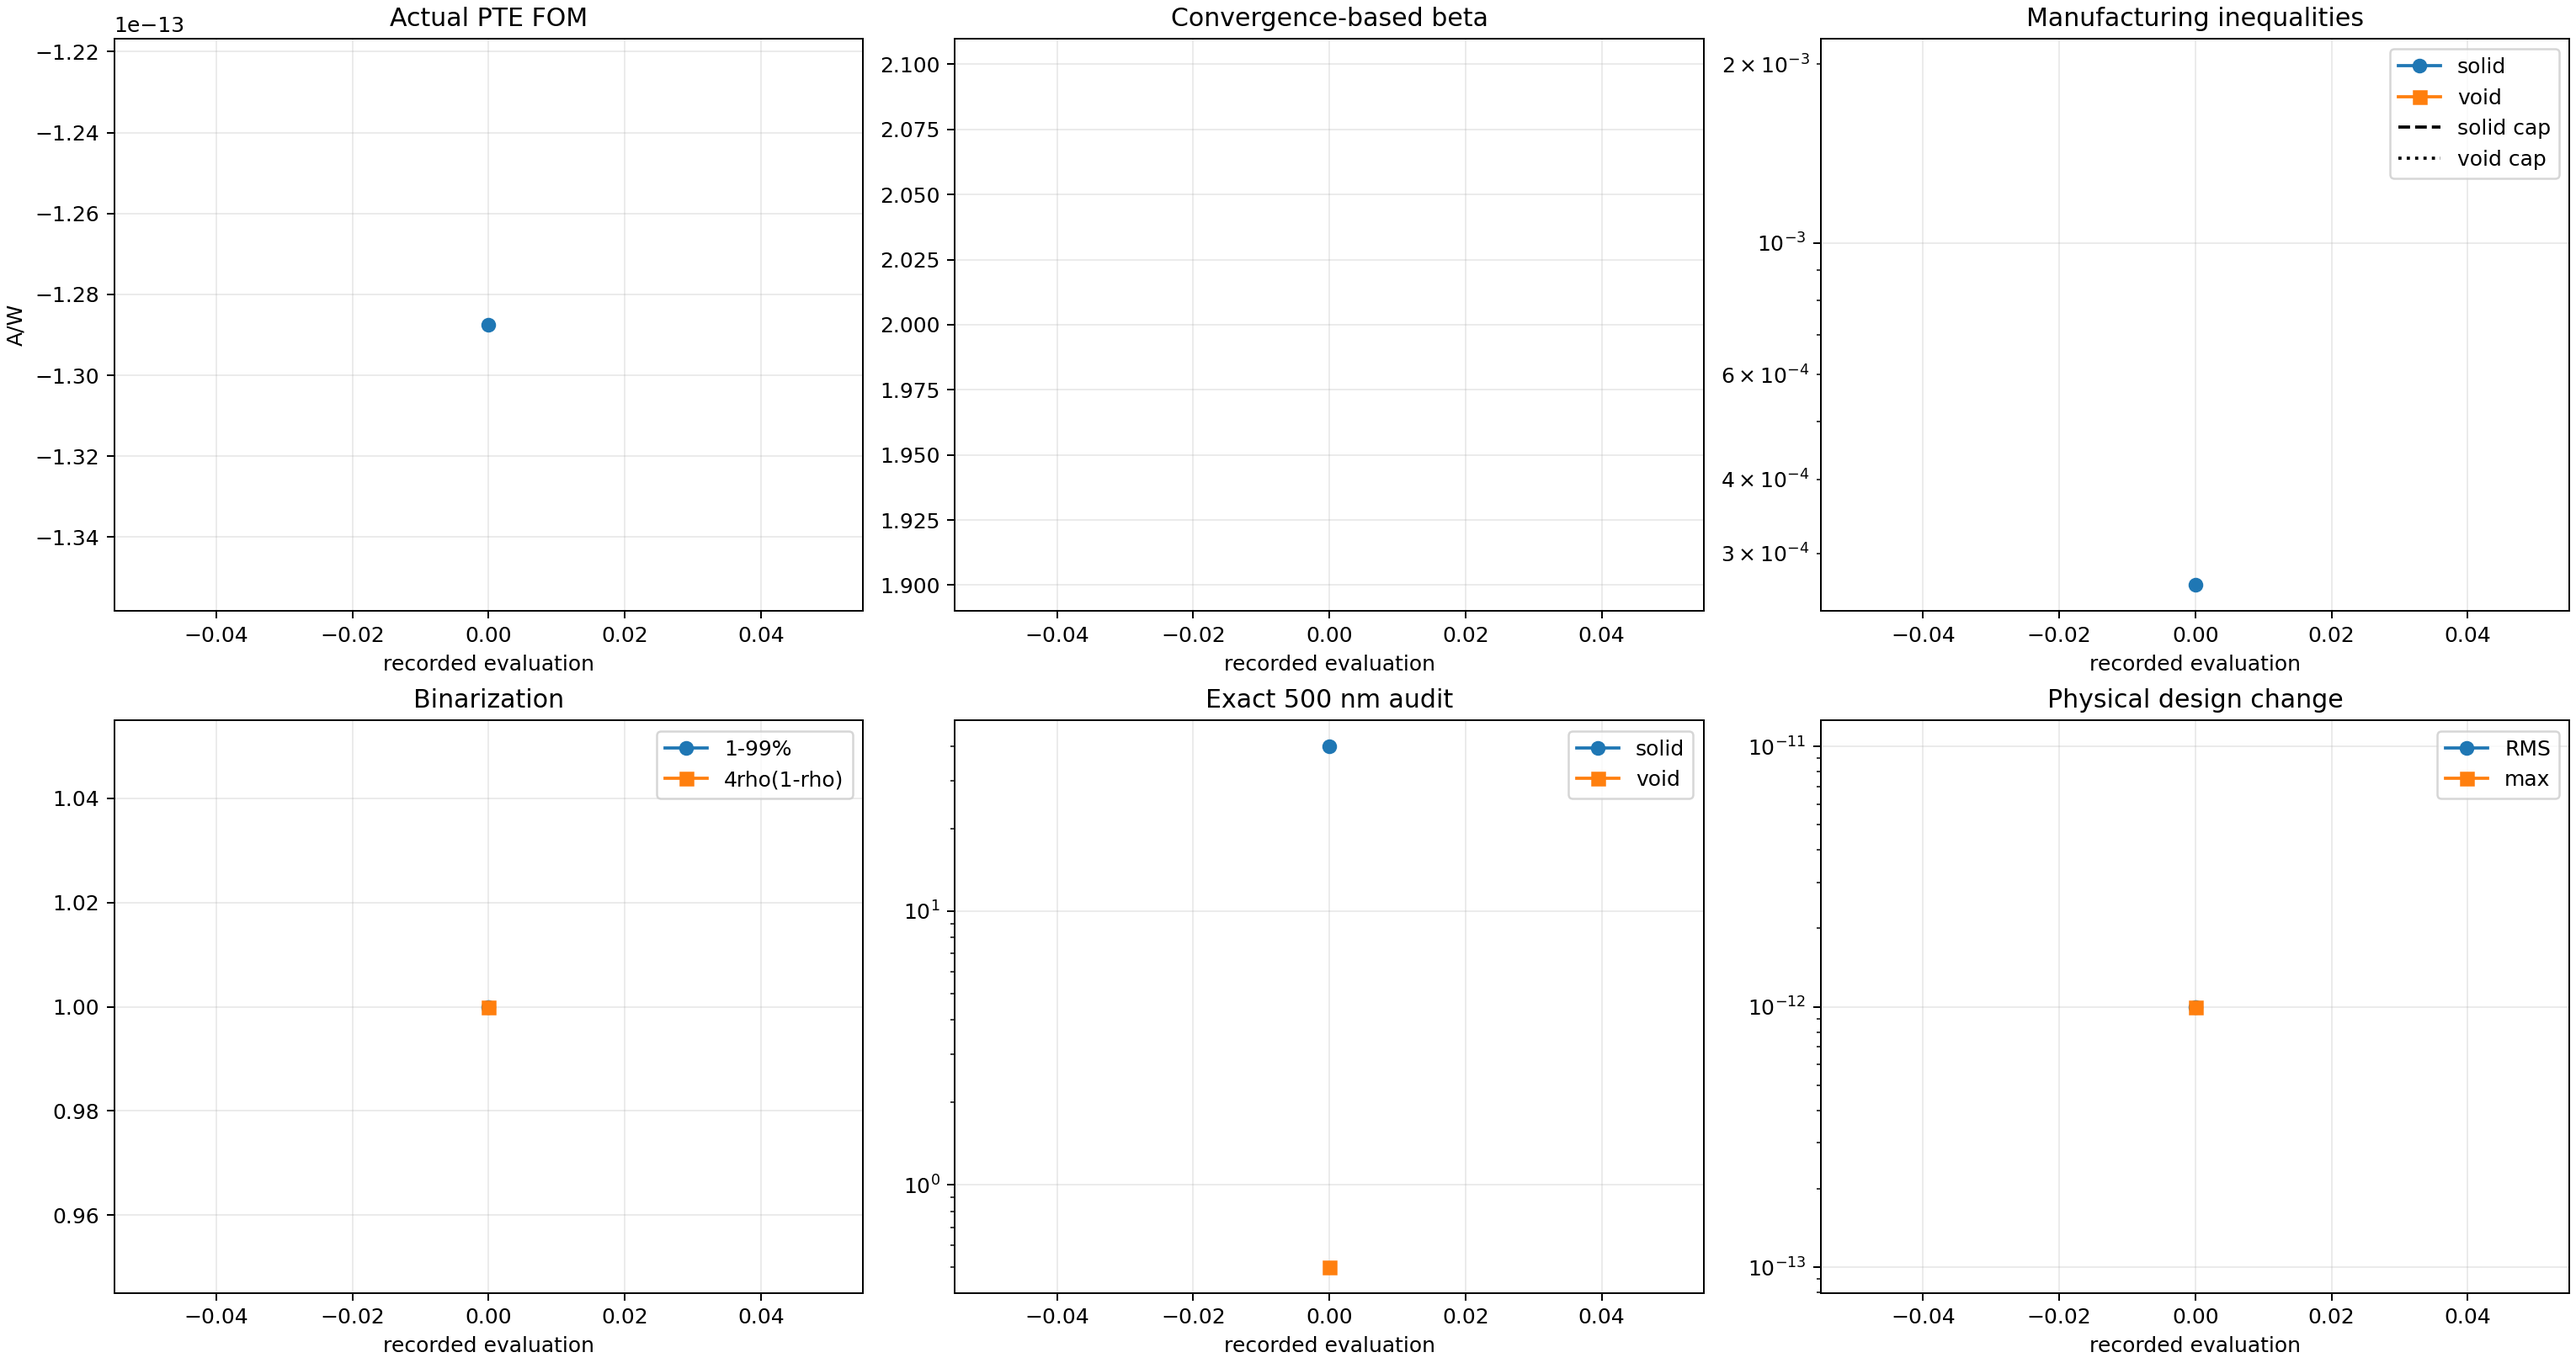
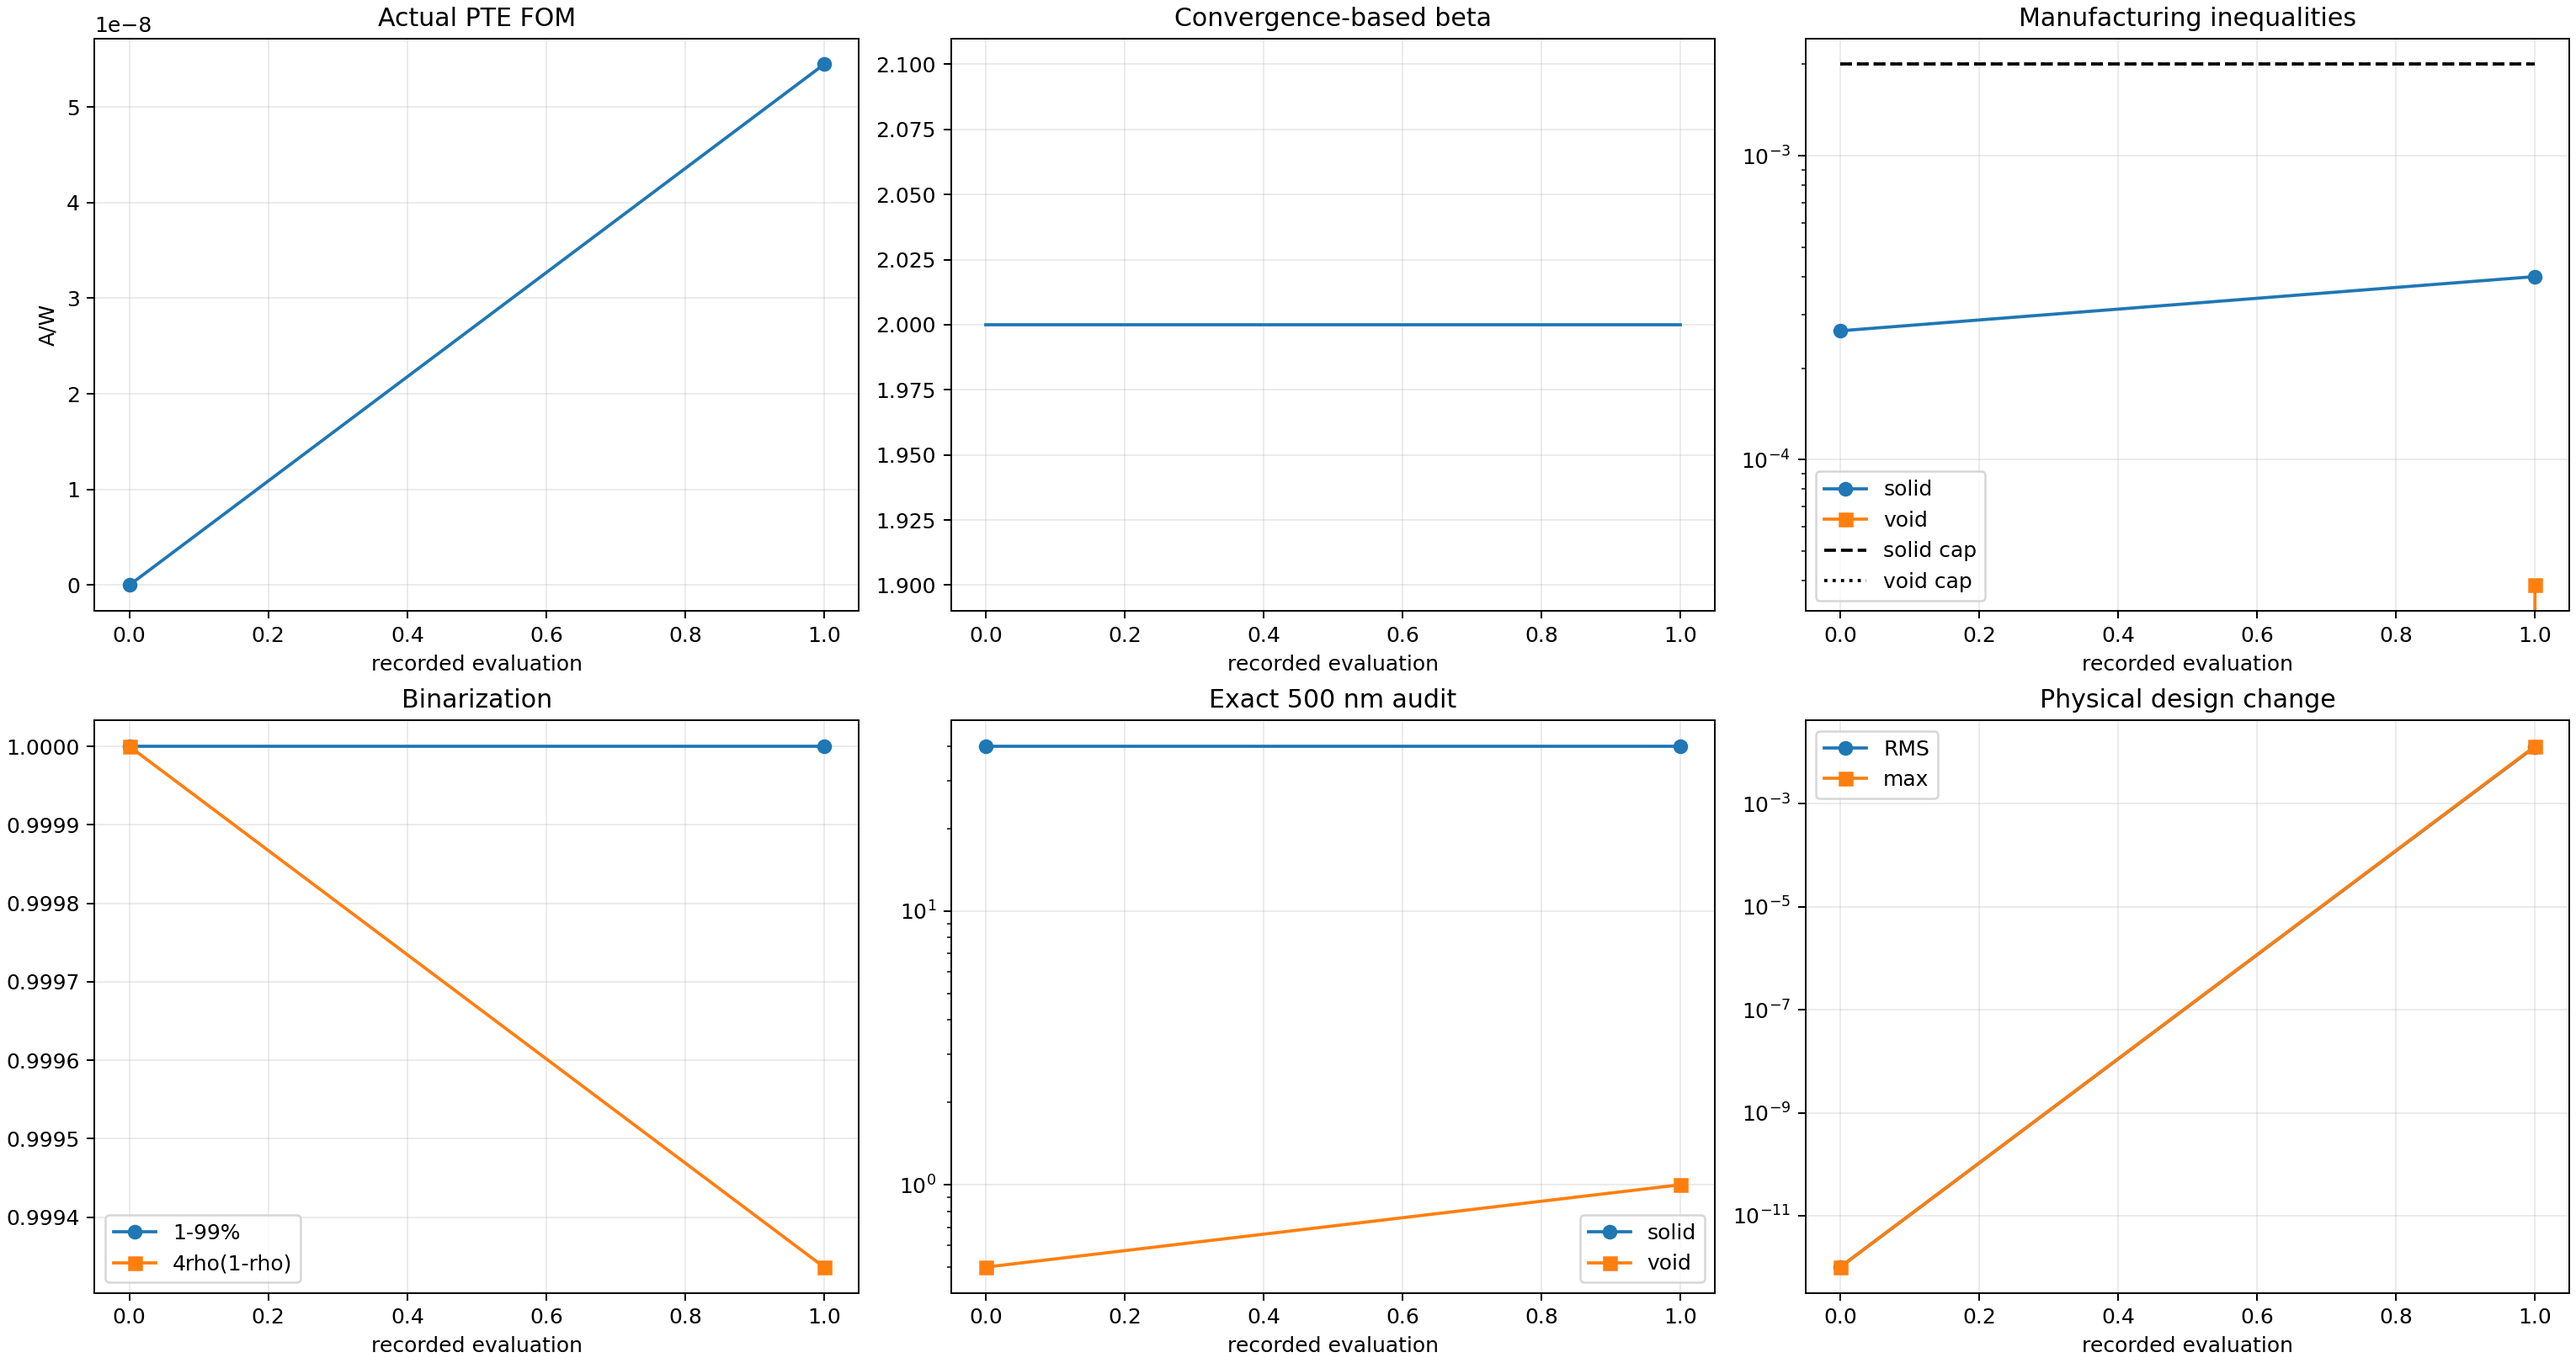
Record Run 005 run009_Ea_uniform_b002_s001_g001_accepted_mma

diff --git a/photothermal_pte/optimization_runs/run_009_uniform_Ea_from_scratch/results/OPTIMIZATION_REPORT.md b/photothermal_pte/optimization_runs/run_009_uniform_Ea_from_scratch/results/OPTIMIZATION_REPORT.md
@@ -2,12 +2,12 @@
 
 Status: `RUNNING_EXACT_UNIFORM_EA_OBJECTIVE_FIRST_OPTIMIZATION`
 
-Current stage: beta=2, accepted stage iteration=0, global iteration=0.
+Current stage: beta=2, accepted stage iteration=1, global iteration=1.
 
 Constraint contract: `soft_disk_opening_500nm_from_iteration_zero_v5`.
 
-Actual FOM: `-1.287496090043e-13 A/W`. Fixed-cap solid/void constraints: `2.654641e-04` / `0.000000e+00` with caps `2.000000e-03` / `2.000000e-03`.
+Actual FOM: `5.445050378823e-08 A/W`. Fixed-cap solid/void constraints: `4.004387e-04` / `3.864774e-05` with caps `2.000000e-03` / `2.000000e-03`.
 
-Exact 500 nm bad cells: solid `40`, void `0`. Stage convergence: `False` (need at least 8 accepted updates).
+Exact 500 nm bad cells: solid `40`, void `1`. Stage convergence: `False` (need at least 8 accepted updates).
 
 Beta advances only after the stage FOM/density plateau. The run is not complete until the projected-binary and exact 500 nm gates pass and a fresh thresholded-binary GPU/CUDA evaluation succeeds.
